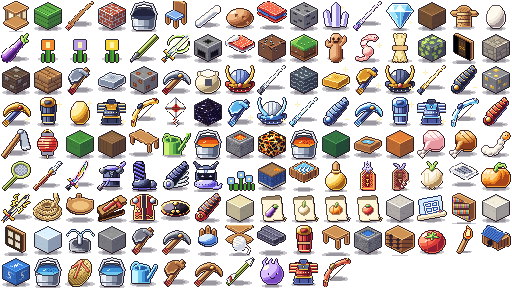
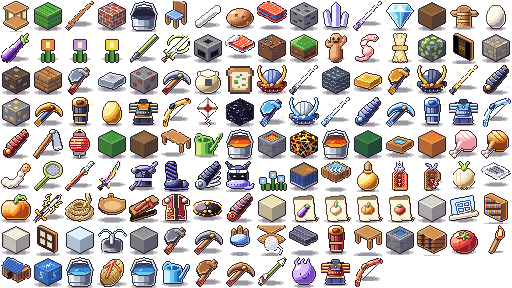
MINE-1E 開発 B: 新しい ブロック 8 こ（204〜211）と かびた パンの 定義
ブロック: ひびの いし・くずれた いし・ふるい レール 東西/南北・こわれた わく・たおれた はしご 東西/南北・たきびの あと
（id・番号・名前・固さ・ほると 落とす 物・固い/固くない）。アイテム kabita_pan（たべもの・体力 2・絵 16×16 と 32×32・宝箱ののぞき表）。
描画と 動きは 次の コミット。content の 写し（snapshots）は 1E の 分だけ 更新。

Claude-Session: https://claude.ai/code/session_013nE4R1iqHaJA7QqUCVaosz

diff --git a/src/dig/config.ts b/src/dig/config.ts
@@ -172,6 +172,14 @@ export const DIG_DEFAULTS: Readonly<DigConfig> = {
     magma_takitsubo: 0.5, // WAKIDOKORO: たきつぼと 同じ
     kodo_waku: 5, // MINE-1C: 坑道の わく（すでで 5 秒。ほると き 1。仕様 §4.4）
     tsurara: 0.5, // MINE-1D: つらら（すでで 0.5 秒。ほると せっかいせき 1。仕様 §4.4）
+    hibi_ishi: 1.5, // MINE-1E: ひびの いし（すでで 1.5 秒 = 90 ステップ。ほると いし 1。仕様 §4.9・E8）
+    kuzure_ishi: 1, // MINE-1E: くずれた いし（すでで 1 秒。ほると いし 1）
+    furui_rail_x: 0.5, // MINE-1E: ふるい レール（すでで 0.5 秒。ほると き 1）
+    furui_rail_z: 0.5,
+    kowareta_waku: 5, // MINE-1E: こわれた わく（すでで 5 秒。ほると き 1。1C の わくと 同じ）
+    taoreta_hashigo_x: 0.5, // MINE-1E: たおれた はしご（すでで 0.5 秒。ほると き 1）
+    taoreta_hashigo_z: 0.5,
+    takibi_ato: 0.5, // MINE-1E: たきびの あと（すでで 0.5 秒。ほると せきたん 1）
     ...forChest<number | null>(null), // 宝箱は ほっても こわれない（start_torch と 同じ）
   } satisfies Record<BlockId, number | null>,
   harvestLevel: {
@@ -264,6 +272,14 @@ export const DIG_DEFAULTS: Readonly<DigConfig> = {
     magma_takitsubo: 0,
     kodo_waku: 0, // 素手から
     tsurara: 0, // MINE-1D: 素手から
+    hibi_ishi: 0, // MINE-1E: 8 こ とも 素手から
+    kuzure_ishi: 0,
+    furui_rail_x: 0,
+    furui_rail_z: 0,
+    kowareta_waku: 0,
+    taoreta_hashigo_x: 0,
+    taoreta_hashigo_z: 0,
+    takibi_ato: 0,
     ...forChest(0),
   } satisfies Record<BlockId, number>,
   handPower: 1.0,
@@ -370,6 +386,14 @@ export const DIG_DEFAULTS: Readonly<DigConfig> = {
     magma_takitsubo: 'uncommon',
     kodo_waku: 'common',
     tsurara: 'common', // MINE-1D
+    hibi_ishi: 'common', // MINE-1E: 8 こ とも ノーマル
+    kuzure_ishi: 'common',
+    furui_rail_x: 'common',
+    furui_rail_z: 'common',
+    kowareta_waku: 'common',
+    taoreta_hashigo_x: 'common',
+    taoreta_hashigo_z: 'common',
+    takibi_ato: 'common',
     ...forChest<Rarity>('common'),
   } satisfies Record<BlockId, Rarity>,
   dropMax: defaultDropMax(),
@@ -418,6 +442,15 @@ export const FARM_BREAK_DROP: Readonly<Partial<Record<BlockId, { item: ItemId; c
   kodo_waku: { item: 'log', count: 1 },
   // MINE-1D: つららは ほると せっかいせき いつも 1 こ（持てない ブロック）
   tsurara: { item: 'sekkaiseki', count: 1 },
+  // MINE-1E: 坑道の 冒険の 8 こ（持てない ブロック。いつも 1 こ。仕様 §4.9）
+  hibi_ishi: { item: 'stone', count: 1 },
+  kuzure_ishi: { item: 'stone', count: 1 },
+  furui_rail_x: { item: 'log', count: 1 },
+  furui_rail_z: { item: 'log', count: 1 },
+  kowareta_waku: { item: 'log', count: 1 },
+  taoreta_hashigo_x: { item: 'log', count: 1 },
+  taoreta_hashigo_z: { item: 'log', count: 1 },
+  takibi_ato: { item: 'coal_ore', count: 1 },
 };
 
 /**

diff --git a/src/ui/itemArtMine.ts b/src/ui/itemArtMine.ts
@@ -60,10 +60,33 @@ const ISHIBAI = {
   ],
 } as const;
 
-/** 絵の 表（1 つの id に 1 つ。足し忘れは 型エラー） */
-const ART = { chalk: CHALK, ishibai: ISHIBAI } as const satisfies Record<MineItemId, { pal: object; rows: readonly string[] }>;
+/** かびた パン（MINE-1E。見本 B「食パン」: 山がたの 食パン。白い 切り口に みどりの かびの ぽつぽつ。きたなすぎない） */
+const KABITA_PAN = {
+  pal: { K: '#3A3442', L: '#E3AE6E', C: '#C98A4B', D: '#9C6532', W: '#F5EBD2', S: '#DCCFAE', G: '#6FA84A', g: '#3E7A3A' },
+  rows: [
+    '................',
+    '...KKKKKKKKKK...',
+    '..KLLCCCCCCCCK..',
+    '.KLCCCCCCCCCCDK.',
+    '.KCCWWWWWWWWCDK.',
+    '.KCWWWWWgWWWWCK.',
+    '..KCWWGGWWWWCK..',
+    '..KCWWWWWGGWDK..',
+    '..KCWGGWWWWWDK..',
+    '..KCWGgWWWWSDK..',
+    '..KCWWWWWgGWDK..',
+    '..KCSWWGWWWSDK..',
+    '..KCCSSSSSSDDK..',
+    '..KDDDDDDDDDDK..',
+    '...KKKKKKKKKK...',
+    '................',
+  ],
+} as const;
 
-/** チョーク・いしばいか（絵を ここで 引く 物） */
+/** 絵の 表（1 つの id に 1 つ。足し忘れは 型エラー） */
+const ART = { chalk: CHALK, ishibai: ISHIBAI, kabita_pan: KABITA_PAN } as const satisfies Record<MineItemId, { pal: object; rows: readonly string[] }>;
+
+/** チョーク・いしばい・かびた パンか（絵を ここで 引く 物） */
 export const isMineItem = (item: string): item is MineItemArtId => Object.hasOwn(ART, item);
 
 /** チョーク・いしばい の 16×16（y = 0 が上） */

diff --git a/src/world/blocks/blockTypes.ts b/src/world/blocks/blockTypes.ts
@@ -130,6 +130,15 @@ export const BLOCK_TYPES: readonly BlockType[] = [
   ...CHEST_BLOCK_IDS.map((id): BlockType => ({ id, name: chestBlockName(chestBlockInfo(id)!.tier, chestBlockInfo(id)!.open), solid: true, breakable: false })),
   // MINE-1D（#351。番号は 後ろに 足す。203）: つらら。固くない（体が 通る）・光を 通す・十字の 板で 描く（絵は tsuraraTexture.ts）
   { id: 'tsurara', name: 'つらら', solid: false, breakable: true },
+  // MINE-1E（番号は 後ろに 足す。204〜211）: 坑道の 冒険。ひびの いし・くずれた いし・こわれた わくは 固い。レール・はしご・たきびの あとは 固くない（体が 通る）
+  { id: 'hibi_ishi', name: 'ひびの いし', solid: true, breakable: true },
+  { id: 'kuzure_ishi', name: 'くずれた いし', solid: true, breakable: true },
+  { id: 'furui_rail_x', name: 'ふるい レール', solid: false, breakable: true },
+  { id: 'furui_rail_z', name: 'ふるい レール', solid: false, breakable: true },
+  { id: 'kowareta_waku', name: 'こわれた わく', solid: true, breakable: true },
+  { id: 'taoreta_hashigo_x', name: 'たおれた はしご', solid: false, breakable: true },
+  { id: 'taoreta_hashigo_z', name: 'たおれた はしご', solid: false, breakable: true },
+  { id: 'takibi_ato', name: 'たきびの あと', solid: false, breakable: true },
 ];
 
 export const BLOCK_INDEX: Readonly<Record<BlockId, number>> = Object.fromEntries(

diff --git a/src/world/blocks/textures.ts b/src/world/blocks/textures.ts
@@ -565,6 +565,15 @@ export const BLOCK_TILES: Readonly<Partial<Record<BlockId, readonly [TileName, T
   // MINE-1C（#350）: 坑道の わく（横・上下）。宝箱は 平らな 箱の 絵（近くは 小ブロックの 形〔render/looks/chestLooks.ts〕）
   kodo_waku: ['kodo_waku_top', 'kodo_waku_side', 'kodo_waku_top'],
   tsurara: ['tsurara', 'tsurara', 'tsurara'], // MINE-1D: 十字の 板の 絵（天井から さがる 3 本）
+  // MINE-1E: 仮（小ブロックの 絵・描画は 次の コミットで 足す）
+  hibi_ishi: ['stone', 'stone', 'stone'],
+  kuzure_ishi: ['stone', 'stone', 'stone'],
+  furui_rail_x: ['log_top', 'log_top', 'log_side'],
+  furui_rail_z: ['log_top', 'log_top', 'log_side'],
+  kowareta_waku: ['kodo_waku_top', 'kodo_waku_side', 'kodo_waku_top'],
+  taoreta_hashigo_x: ['log_top', 'log_top', 'log_side'],
+  taoreta_hashigo_z: ['log_top', 'log_top', 'log_side'],
+  takibi_ato: ['coal_ore_b', 'coal_ore_b', 'coal_ore_b'],
   ...CHEST_BLOCK_TILES,
   // チョークの しるし 12 こ: 立方体では ない（面に はる 板。render/chalkMesh.ts）。ここは かけらの 色・アイテムの 絵などの ため
   ...CHALK_BLOCK_TILES,

diff --git a/src/content/items/mine.ts b/src/content/items/mine.ts
@@ -25,4 +25,14 @@ export const MINE_ITEMS = {
     info: { use: 'はたけ の やさい に まくと すぐ みのる。しっくい の ざいりょう', how: 'てに もって、はたけ の やさい に みぎクリック', buttons: ['1-9', 'right'] },
     recipe: { count: 2, inputs: [['sekkaiseki', 1]], station: 'furnace' }, // かまど（ねんりょう 1・60 ステップ）。せっかいせき 1 → いしばい 2
   },
+  kabita_pan: {
+    name: 'かびた パン',
+    zukan: 'むかしの ぼうけんしゃが のこした パン。みどりの かびが はえて いる。たべると…？',
+    maxStack: 64,
+    rarity: 'common', // ノーマル（キャンプあとの たんす だけ。宝箱の くじには 入らない）
+    category: 'food',
+    info: { use: 'たべると すこし だけ げんき に なる。でも かびて いる', how: 'もって みぎクリック', buttons: ['1-9', 'right'] },
+    source: 'むかし の ぼうけんしゃ の たんす に のこって いる',
+    food: { heal: 2 }, // たべた ときに もどる 体力（2 = ハート 1 こ。仕様 §4.9）
+  },
 } satisfies Record<MineItemId, ItemDef>;

diff --git a/src/content/items/ids.ts b/src/content/items/ids.ts
@@ -114,9 +114,10 @@ export type HouseToolId = (typeof HOUSE_TOOL_IDS)[number];
 
 /**
  * 新しい 鉱物から 作る 物（MINE-1B #349。置けない アイテム 2 つ）: チョーク（かべ・ゆかに やじるしを かく）・いしばい（作物を すぐ みのらせる）。
+ * MINE-1E: かびた パン〔`kabita_pan`。たべもの。キャンプあとの たんす だけ〕も ここ。
  * せっかいせき・しっくい・ほたるいし・きんの いしは 置ける ブロックなので BlockId 側（contracts/world.ts）に ある。ITEM_TYPES では 家づくりの 道具の 次
  */
-const MINE_ITEM_IDS = ['chalk', 'ishibai'] as const;
+const MINE_ITEM_IDS = ['chalk', 'ishibai', 'kabita_pan'] as const;
 export type MineItemId = (typeof MINE_ITEM_IDS)[number];
 /** 名前で 読む（`MINE_ITEM.chalk`）。コードの 中で id を 文字で 書かずに 済む（id は 上の 表の 1 回だけ） */
 export const MINE_ITEM = Object.fromEntries(MINE_ITEM_IDS.map((id) => [id, id])) as { readonly [K in MineItemId]: K };

diff --git a/src/content/items/registry.ts b/src/content/items/registry.ts
@@ -115,7 +115,7 @@ export const LEGEND_DEFS: ItemDefs = LEGEND;
  * MINE-1B（#349）: せっかいせき・しっくい・ほたるいし・きんの いし（置ける）・チョーク・いしばい。
  * ITEM_TYPES・色分けでは いちばん うしろ（家づくりの 道具の 次）。作業台・かまどの カードも いちばん うしろ（チョーク → しっくい／いしばい）
  */
-export const MINE_DEFS: ItemDefs = pickDefs({ ...MINE_BLOCKS, ...MINE_ITEMS }, ['sekkaiseki', 'hotaruishi', 'kin_ore', 'shikkui', 'chalk', 'ishibai']);
+export const MINE_DEFS: ItemDefs = pickDefs({ ...MINE_BLOCKS, ...MINE_ITEMS }, ['sekkaiseki', 'hotaruishi', 'kin_ore', 'shikkui', 'chalk', 'ishibai', 'kabita_pan']);
 
 /**
  * 登録された 全アイテム（置ける ブロック・道具・刀・ゆみ・防具・忍者・侍・畑・ざいりょう・小物・生き物・レジェンダリー・金。刀の集まり BLADE_ITEMS の 並びは この 順）。

diff --git a/src/content/items/registry.test.ts b/src/content/items/registry.test.ts
@@ -102,7 +102,8 @@ const FARM_IDS = [...SEED_ITEM_IDS, ...VEG_ITEM_IDS, ...FARM_TOOL_IDS, 'sprinkle
  * MINE-1B で はじめて 登録表に 入る アイテム 6 つ（ダイヤは KONGO-1 で もう ある）。どの シリーズ（ファイル）に 入れるかは developer が 決める ので、
  * 下の「シリーズの 一覧」とは 別に 数える（登録された ことと 値は src/content/items/mine1b.test.ts）
  */
-const MINE_1B_IDS: readonly string[] = ['sekkaiseki', 'shikkui', 'hotaruishi', 'kin_ore', 'chalk', 'ishibai'];
+// MINE-1E の かびた パン（kabita_pan）も 同じ 扱い（別シリーズのファイル mine.ts）
+const MINE_1B_IDS: readonly string[] = ['sekkaiseki', 'shikkui', 'hotaruishi', 'kin_ore', 'chalk', 'ishibai', 'kabita_pan'];
 const strip1B = (ids: readonly string[]): string[] => ids.filter((id) => !MINE_1B_IDS.includes(id));
 
 describe('登録表（金シリーズ）', () => {

diff --git a/src/dig/toolFamily.ts b/src/dig/toolFamily.ts
@@ -54,6 +54,14 @@ const BLOCK_FAMILY: Partial<Record<BlockId, ToolFamily>> = {
   diamond_ore: 'stone',
   tsurara: 'stone', // MINE-1D: つらら（なかま いし）
   kodo_waku: 'log', // MINE-1C: 坑道の わくは き の なかま（おの）
+  hibi_ishi: 'stone', // MINE-1E: ひび・くずれは いし の なかま
+  kuzure_ishi: 'stone',
+  kowareta_waku: 'log', // MINE-1E: こわれた わく・レール・はしごは き の なかま、たきびの あとは すみ（いし）
+  furui_rail_x: 'log',
+  furui_rail_z: 'log',
+  taoreta_hashigo_x: 'log',
+  taoreta_hashigo_z: 'log',
+  takibi_ato: 'stone',
   // つち（あう道具: くわ）
   grass: 'dirt',
   dirt: 'dirt',

diff --git a/src/contracts/world.ts b/src/contracts/world.ts
@@ -125,7 +125,16 @@ export type BlockId =
   | 'kodo_waku'
   | ChestBlockId
   // MINE-1D（#351。うしろに足す）: つらら（固くない。天井の 下に さがる。ほると せっかいせき 1）
-  | 'tsurara';
+  | 'tsurara'
+  // MINE-1E（うしろに足す。204〜211）: 坑道の 冒険の 8 こ（ひび・くずれ・ふるい レール 2 向き・こわれた わく・たおれた はしご 2 向き・たきびの あと。仕様 §4.9）
+  | 'hibi_ishi'
+  | 'kuzure_ishi'
+  | 'furui_rail_x'
+  | 'furui_rail_z'
+  | 'kowareta_waku'
+  | 'taoreta_hashigo_x'
+  | 'taoreta_hashigo_z'
+  | 'takibi_ato';
 
 export interface BlockType {
   id: BlockId;

diff --git a/src/world/gen/mineChest.ts b/src/world/gen/mineChest.ts
@@ -14,6 +14,7 @@ import { createRng, hash01, hashInts } from './random';
 const EXCLUDED = [
   { item: 'yokai_orb', reason: 'いまは 手に 入らない（ようかいだま）' },
   { item: 'omamori_torn', reason: 'しるし ＝ 記念の 品（やぶれた おまもり）' },
+  { item: 'kabita_pan', reason: 'じょうだんの 物。宝箱から 出ると がっかり する（キャンプあとの たんす だけ）' },
   { item: 'sekkeizu', reason: '1 まいずつ 中身〔plan の 番号〕を もつ 物。宝箱から 出ると 読めない せっけいずに なる' },
 ] as const satisfies readonly { item: ItemId; reason: string }[];
 

diff --git a/src/content/items/live.test.ts b/src/content/items/live.test.ts
@@ -109,7 +109,7 @@ describe('登録表（生き物 8 個）', () => {
     expect(LIVE_SETTING_DEFAULTS.animalEggHeal).toBe(2);
     expect(LIVE_SETTING_DEFAULTS.meatHeal).toBe(10);
     expect(() => registryHeal('momo_nama')).toThrow();
-    const withFood = Object.entries(ITEM_DEFS).filter(([, d]) => d?.food).map(([id]) => id);
+    const withFood = Object.entries(ITEM_DEFS).filter(([id, d]) => d?.food && id !== 'kabita_pan').map(([id]) => id); // かびた パン〔MINE-1E〕は 別の シリーズ（src/content/items/mine.ts）
     expect(withFood).toEqual(['egg', 'momo_yaki']);
   });
 
